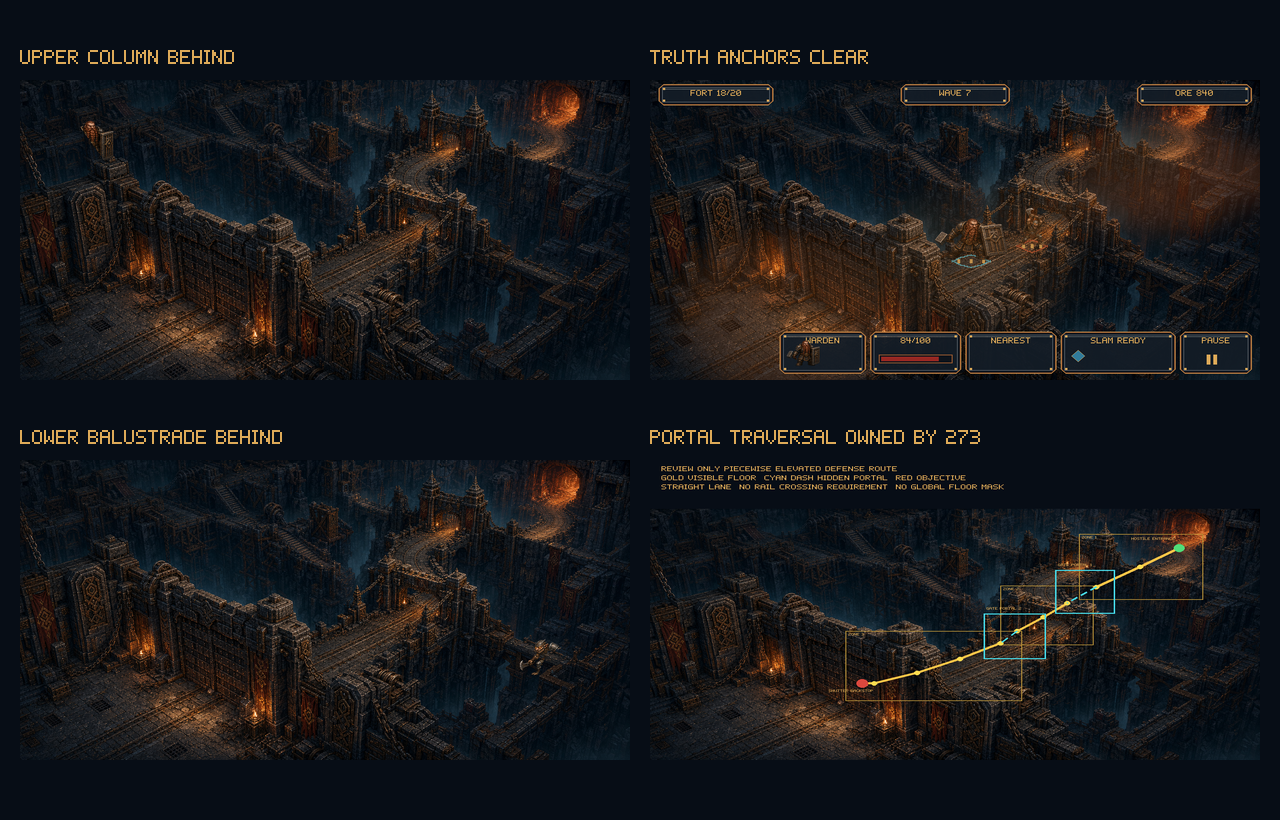
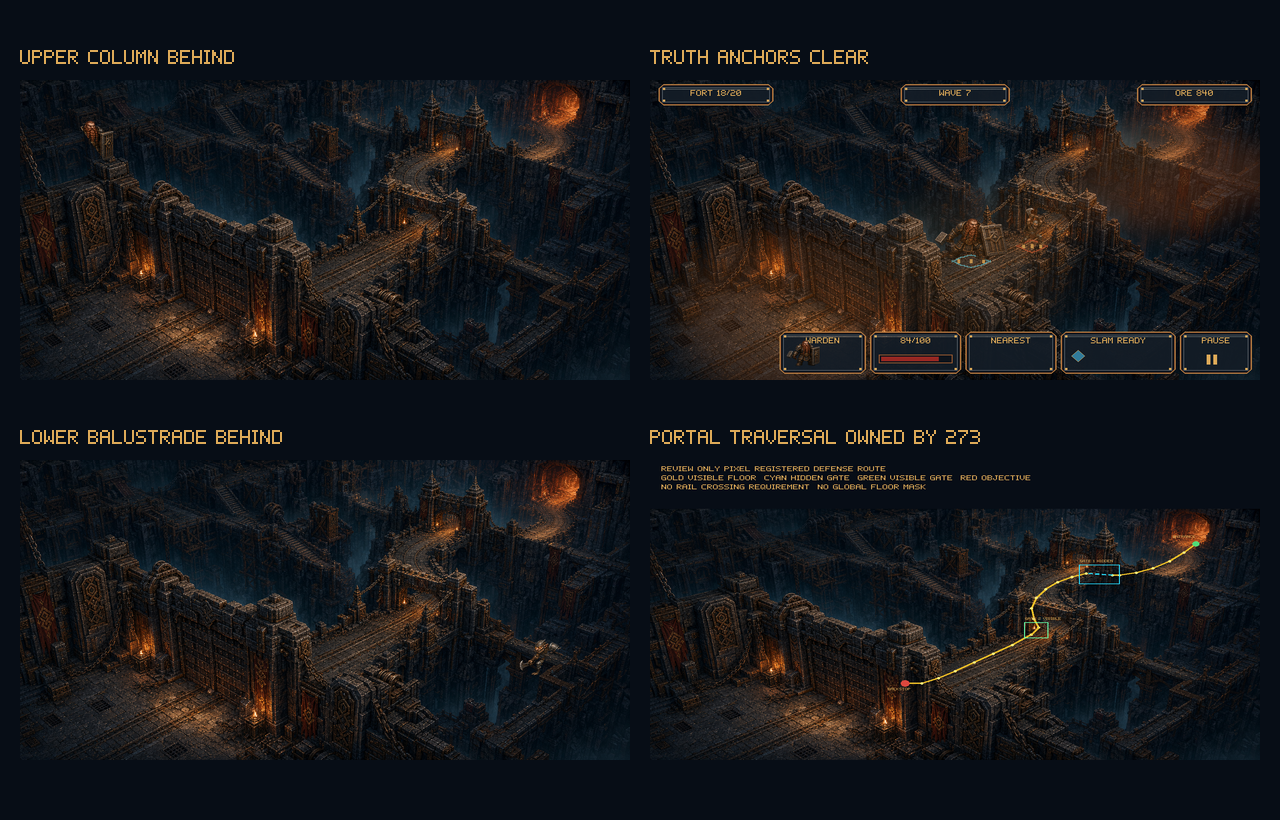
fix: register defense route to painted gate geometry

diff --git a/assets/game-art/production-scene/build_scene.py b/assets/game-art/production-scene/build_scene.py
@@ -1734,36 +1734,62 @@ def _draw_dashed_line_v3(
 
 
 def _route_board_v3(clean: Image.Image, route: dict[str, Any]) -> Image.Image:
-    """Show visible route zones and explicitly hidden portal/depth transitions."""
+    """Render a sparse, pixel-registered route survey over the clean plate."""
     board = Image.new("RGBA", (1280, 860), (7, 13, 22, 255))
-    pixel_text(board, (24, 18), "REVIEW ONLY PIECEWISE ELEVATED DEFENSE ROUTE", 2)
-    pixel_text(board, (24, 44), "GOLD VISIBLE FLOOR  CYAN DASH HIDDEN PORTAL  RED OBJECTIVE", 2)
-    pixel_text(board, (24, 70), "STRAIGHT LANE  NO RAIL CROSSING REQUIREMENT  NO GLOBAL FLOOR MASK", 2)
+    pixel_text(board, (24, 18), "REVIEW ONLY PIXEL REGISTERED DEFENSE ROUTE", 2)
+    pixel_text(board, (24, 44), "GOLD VISIBLE FLOOR  CYAN HIDDEN GATE  GREEN VISIBLE GATE  RED OBJECTIVE", 2)
+    pixel_text(board, (24, 70), "NO RAIL CROSSING REQUIREMENT  NO GLOBAL FLOOR MASK", 2)
     scene = clean.copy()
     draw = ImageDraw.Draw(scene)
     zones = route["zones"]
-    for index, zone in enumerate(zones, start=1):
+    for zone in zones:
         polyline = [tuple(point) for point in zone["visiblePolyline"]]
-        draw.line(polyline, fill=(255, 198, 72, 255), width=6, joint="curve")
+        draw.line(polyline, fill=(255, 205, 40, 235), width=4, joint="curve")
         for x, y in polyline:
-            draw.ellipse((x - 6, y - 6, x + 6, y + 6), fill=(255, 220, 80, 255))
-        x0, y0, x1, y1 = zone["bounds"]
-        draw.rectangle((x0, y0, x1, y1), outline=(255, 198, 72, 180), width=2)
-        pixel_text(scene, (x0 + 6, y0 + 6), f"ZONE {index}", 1)
+            draw.ellipse((x - 3, y - 3, x + 3, y + 3), fill=(255, 235, 120, 255))
     for index, portal in enumerate(route["portals"], start=1):
         incoming = tuple(portal["incomingAnchor"])
         outgoing = tuple(portal["outgoingAnchor"])
-        _draw_dashed_line_v3(draw, incoming, outgoing, fill=(70, 220, 235, 255))
         x0, y0, x1, y1 = portal["bounds"]
-        draw.rectangle((x0, y0, x1, y1), outline=(70, 220, 235, 255), width=3)
-        pixel_text(scene, (x0 + 6, max(8, y0 - 18)), f"GATE PORTAL {index}", 1)
+        if portal["visibility"] == "architecture-hidden":
+            color = (40, 220, 255, 255)
+            _draw_dashed_line_v3(draw, incoming, outgoing, fill=color, width=4, dash=8, gap=6)
+            label = f"GATE {index} HIDDEN"
+        else:
+            color = (100, 255, 170, 255)
+            draw.line((incoming, outgoing), fill=(255, 205, 40, 235), width=4)
+            label = f"GATE {index} VISIBLE"
+        draw.rectangle((x0, y0, x1, y1), outline=color, width=2)
+        pixel_text(scene, (x0 + 2, max(8, y0 - 14)), label, 1)
     entrance_x, entrance_y = route["entrance"]["anchor"]
     objective_x, objective_y = route["objective"]["anchor"]
-    draw.ellipse((entrance_x - 11, entrance_y - 11, entrance_x + 11, entrance_y + 11), fill=(80, 220, 120, 255))
-    draw.ellipse((objective_x - 12, objective_y - 12, objective_x + 12, objective_y + 12), fill=(220, 72, 62, 255))
-    pixel_text(scene, (entrance_x - 100, entrance_y - 30), "HOSTILE ENTRANCE", 1)
-    pixel_text(scene, (objective_x - 70, objective_y + 18), "SHUTTER BACKSTOP", 1)
+    draw.ellipse((entrance_x - 7, entrance_y - 7, entrance_x + 7, entrance_y + 7), fill=(80, 220, 120, 255))
+    draw.ellipse((objective_x - 9, objective_y - 9, objective_x + 9, objective_y + 9), fill=(220, 72, 62, 255))
+    pixel_text(scene, (entrance_x - 48, entrance_y - 24), "ENTRANCE", 1)
+    pixel_text(scene, (objective_x - 36, objective_y + 13), "BACKSTOP", 1)
     board.alpha_composite(scene, (0, 140))
+    return board
+
+
+def _route_registration_closeups_v3(route_board: Image.Image) -> Image.Image:
+    """Expose gate/threshold registration at reviewable scale instead of relying on the full frame."""
+    board = Image.new("RGBA", (1920, 680), (7, 13, 22, 255))
+    pixel_text(board, (24, 18), "PIXEL REGISTRATION CLOSEUPS FROM THE SAME ROUTE BOARD", 2)
+    panels = [
+        ("UPPER GATE HIDDEN SPAN", (780, 230, 1080, 450)),
+        ("LOWER GATE VISIBLE MOUTH", (650, 380, 950, 600)),
+        ("SHUTTER THRESHOLD", (400, 510, 700, 730)),
+    ]
+    for index, (label, crop_box) in enumerate(panels):
+        crop = route_board.crop(crop_box)
+        scale = min(600 / crop.width, 540 / crop.height)
+        resized = crop.resize((round(crop.width * scale), round(crop.height * scale)), Image.Resampling.NEAREST)
+        x = 20 + index * 630
+        y = 100
+        pixel_text(board, (x, 72), label, 1)
+        board.alpha_composite(resized, (x, y))
+        draw = ImageDraw.Draw(board)
+        draw.rectangle((x, y, x + resized.width - 1, y + resized.height - 1), outline=(222, 170, 88, 255), width=2)
     return board
 
 
@@ -1967,6 +1993,7 @@ def build(output_root: Path = ROOT) -> None:
         evidence / "lighting-entity-proof.png",
     )
     png(route_board, evidence / "route-anchor-validation.png")
+    png(_route_registration_closeups_v3(route_board), evidence / "route-registration-closeups.png")
     png(_alignment_board_v2(sprites), evidence / "entity-state-alignment.png")
     png(
         _impact_board_v2(reconstruction, effects["shield-slam-impact"]),
@@ -2050,12 +2077,12 @@ def verify(root: Path = ROOT) -> None:
         "safeAreas": {"world": [0, 0, 1280, 720], "unobscuredWorldBand": [0, 72, 1280, 590], "entitySafe": [80, 80, 1200, 590], "hudOcclusionRects": [[272, 604, 1262, 704]]},
         "camera": {"projection": "elevated-orthographic-2.5d", "viewDirection": "upper-right-background-to-lower-left-foreground", "fixedReviewFrame": True},
         "route": {
-            "topology": "single-straight-piecewise-portal-route",
+            "topology": "single-piecewise-painted-floor-route",
             "scope": "presentation-only-fixed-truth-screen",
-            "entrance": {"id": "entrance.background-opening", "anchor": [1110, 112]},
+            "entrance": {"id": "entrance.background-opening", "anchor": [1145, 100]},
             "objective": {
                 "id": "objective.foreground-shutter",
-                "anchor": [445, 500],
+                "anchor": [535, 500],
                 "kind": "terminal-backstop",
                 "traversable": False,
             },
@@ -2063,20 +2090,20 @@ def verify(root: Path = ROOT) -> None:
                 {
                     "id": "route-zone.background-approach",
                     "depthOrder": 100,
-                    "bounds": [900, 72, 1160, 260],
-                    "visiblePolyline": [[1110, 112], [1028, 166], [936, 224]],
+                    "bounds": [960, 80, 1165, 205],
+                    "visiblePolyline": [[1145, 100], [1120, 125], [1090, 150], [1055, 170], [1020, 183], [985, 190], [970, 190]],
                 },
                 {
                     "id": "route-zone.upper-causeway",
                     "depthOrder": 200,
-                    "bounds": [735, 220, 930, 390],
-                    "visiblePolyline": [[875, 270], [825, 310], [770, 350]],
+                    "bounds": [790, 175, 925, 350],
+                    "visiblePolyline": [[915, 185], [885, 195], [855, 210], [830, 230], [810, 255], [800, 285], [805, 315], [815, 340]],
                 },
                 {
                     "id": "route-zone.lower-causeway",
                     "depthOrder": 300,
-                    "bounds": [410, 350, 780, 550],
-                    "visiblePolyline": [[735, 385], [650, 430], [560, 470], [470, 500], [445, 500]],
+                    "bounds": [525, 350, 810, 515],
+                    "visiblePolyline": [[800, 360], [760, 390], [720, 415], [680, 440], [640, 465], [605, 485], [570, 500], [535, 500]],
                 },
             ],
             "portals": [
@@ -2084,9 +2111,10 @@ def verify(root: Path = ROOT) -> None:
                     "id": "portal.upper-gate",
                     "incomingZoneId": "route-zone.background-approach",
                     "outgoingZoneId": "route-zone.upper-causeway",
-                    "incomingAnchor": [936, 224],
-                    "outgoingAnchor": [875, 270],
-                    "bounds": [850, 175, 975, 300],
+                    "incomingAnchor": [970, 190],
+                    "outgoingAnchor": [915, 185],
+                    "bounds": [900, 160, 985, 215],
+                    "visibility": "architecture-hidden",
                     "occlusionMode": "architecture-depth-transition",
                     "traversalOwnerIssue": 273,
                 },
@@ -2094,15 +2122,16 @@ def verify(root: Path = ROOT) -> None:
                     "id": "portal.lower-gate",
                     "incomingZoneId": "route-zone.upper-causeway",
                     "outgoingZoneId": "route-zone.lower-causeway",
-                    "incomingAnchor": [770, 350],
-                    "outgoingAnchor": [735, 385],
-                    "bounds": [700, 300, 830, 430],
-                    "occlusionMode": "architecture-depth-transition",
+                    "incomingAnchor": [815, 340],
+                    "outgoingAnchor": [800, 360],
+                    "bounds": [785, 325, 835, 370],
+                    "visibility": "visible-floor-gate-mouth",
+                    "occlusionMode": "visible-depth-transition",
                     "traversalOwnerIssue": 273,
                 },
             ],
             "chokepointPortalIds": ["portal.upper-gate", "portal.lower-gate"],
-            "validation": "local-visible-segments-and-declared-hidden-portals",
+            "validation": "pixel-surveyed-visible-segments-and-registered-gate-mouths",
         },
         "entityAnchors": {"ironWardenTruthScreen": {"groundPosition": [674, 434], "depthSortY": 434}, "mineRaiderTruthScreen": {"groundPosition": [802, 398], "depthSortY": 398}},
         "entityStates": {"iron-warden-idle": {"canvas": [180, 120], "pivot": [90, 112], "facing": "upper-right", "nominalHeight": 104}, "iron-warden-shield-slam": {"canvas": [180, 120], "pivot": [90, 112], "facing": "upper-right", "nominalHeight": 104}, "mine-raider-idle": {"canvas": [128, 108], "pivot": [64, 100], "facing": "lower-left", "nominalHeight": 92}, "mine-raider-attack": {"canvas": [128, 108], "pivot": [64, 100], "facing": "lower-left", "nominalHeight": 92}},
@@ -2170,6 +2199,7 @@ def verify(root: Path = ROOT) -> None:
         "reconstruction-entities-removed",
         "reconstruction-one-warden-one-hostile",
         "route-anchor-validation",
+        "route-registration-closeups",
         "selection-and-combat-effect-isolation",
         "shield-slam-effect-proof",
     ]
@@ -2327,7 +2357,7 @@ def verify(root: Path = ROOT) -> None:
         raise ValueError("Last visible route zone must terminate at the shutter backstop")
     portals = route["portals"]
     if not isinstance(portals, list) or len(portals) != len(zones) - 1:
-        raise ValueError("Each adjacent visible route zone must be joined by one hidden portal transition")
+        raise ValueError("Each adjacent visible route zone must be joined by one registered gate transition")
     portal_ids: list[str] = []
     for index, raw_portal in enumerate(portals):
         portal = _assert_strict_v2(
@@ -2339,6 +2369,7 @@ def verify(root: Path = ROOT) -> None:
                 "incomingAnchor",
                 "outgoingAnchor",
                 "bounds",
+                "visibility",
                 "occlusionMode",
                 "traversalOwnerIssue",
             },
@@ -2357,7 +2388,13 @@ def verify(root: Path = ROOT) -> None:
         x0, y0, x1, y1 = validate_rectangle(portal["bounds"], f"scene.route.portals[{index}].bounds")
         if not all(x0 <= x <= x1 and y0 <= y <= y1 for x, y in (incoming_anchor, outgoing_anchor)):
             raise ValueError("Portal transition anchors must lie inside the declared portal mouth")
-        if portal["occlusionMode"] != "architecture-depth-transition" or portal["traversalOwnerIssue"] != 273:
+        expected_visibility = ["architecture-hidden", "visible-floor-gate-mouth"][index]
+        expected_occlusion_mode = ["architecture-depth-transition", "visible-depth-transition"][index]
+        if (
+            portal["visibility"] != expected_visibility
+            or portal["occlusionMode"] != expected_occlusion_mode
+            or portal["traversalOwnerIssue"] != 273
+        ):
             raise ValueError("Portal traversal/occlusion ownership drifted")
         portal_id = portal["id"]
         if not isinstance(portal_id, str) or portal_id in portal_ids:
@@ -2717,7 +2754,7 @@ def verify(root: Path = ROOT) -> None:
[6 lines of base64/hex data omitted]
     }
     if {record["path"]: record["role"] for record in provenance["inputs"]} != expected_roles:

diff --git a/assets/game-art/production-scene/README.md b/assets/game-art/production-scene/README.md
@@ -21,8 +21,8 @@ The verifier strictly rejects extra contract properties, stale/unmanifested file
 - The neutral reconstruction contains one readable Warden and one readable raider; Shield Slam impact is proved separately.
 - HUD chrome is separate from fixture values, health fill, target selection, ability readiness/cooldown, and pause/resume state.
 - The bottom HUD begins at x=272, leaving the foreground shutter approach and objective anchor visible.
-- The straight route is represented as three visible depth zones joined by two hidden architectural portal transitions: background entrance, upper gate, lower gate, and terminal foreground-shutter backstop. There is no rail-crossing, winding-path, branching-path, or global exposed-floor-mask requirement.
-- The diagnostic route overlay distinguishes visible floor segments from hidden portal/depth transitions and is never player UI. The shutter is a nontraversable objective; the route terminates at its approach.
+- The painted route is represented as three pixel-surveyed visible depth zones. The upper gate has one architecture-hidden transition; the lower gate mouth remains visibly floored and is marked as a visible depth transition. The route terminates at the foreground-shutter backstop. There is no rail-crossing, winding-path, branching-path, or global exposed-floor-mask requirement.
+- The diagnostic route overlay uses gold only on surveyed visible floor, cyan only across the upper architecture-hidden span, and green around the visible lower gate mouth. It is never player UI. The shutter is a nontraversable objective; the route terminates at its threshold.
 - Occlusion is explicitly bounded to #287's two fixed truth-screen anchors at Warden `[674, 434]` and raider `[802, 398]`. Portal traversal contracts and production movement remain owned by #273; #286 declares the portal mouths and depth transitions without claiming complete traversal animation.
 - Lighting uses straight-alpha normal compositing in sRGB, after entities/foreground and before combat effects/HUD.
 
@@ -32,7 +32,7 @@ The verifier strictly rejects extra contract properties, stale/unmanifested file
 |---|---|---|---|---|
 | Clean plate | Exact pixels and source identity | Minor export optimization with pixel identity | Replacement pixels or composition | #286 / product owner |
 | Camera/framing | Elevated orthographic 2.5D, 1280×720 review frame | None | Projection or framing change | #286 / product owner |
-| Route, entrance, gate | Straight piecewise topology, background entrance, two gate portals, terminal shutter objective | Local readability grading | Topology, entrance, portal, objective, or depth-zone change | #286 / product owner |
+| Route, entrance, gate | Pixel-surveyed piecewise topology, background entrance, one hidden upper transition, one visible lower gate mouth, terminal shutter objective | Local readability grading | Topology, entrance, portal, objective, or depth-zone change | #286 / product owner |
 | Entity scale/anchors | 104 px Warden, 92 px raider, pivots, fixed #287 anchors | Bounded sprite cleanup preserving silhouette/pivot | Proportion, scale family, or anchor change | #286 / product owner |
 | HUD regions | Exact top and right-weighted bottom regions | Ornament and information hierarchy | Region placement or gate-obscuring layout | #275 / product owner |
 | HUD state | Minimum #287 value/control variants | Typography/icon polish | Authoritative meaning or control relocation | #275 |
@@ -50,9 +50,9 @@ The clean plate retains the wider diagonal, architecture-forward composition sho
 
 | Review item | Requested now | Demonstrated fact | Known limitation / later owner |
 |---|---|---|---|
-| Composition | Accept the wider diagonal camera, straight portal-based route, entrance, shutter backstop, and HUD regions as #287's floor | Clean plate is complete and independently layered | Encounter density and production battlefield polish: #273 |
+| Composition | Accept the wider diagonal camera, pixel-registered painted-floor route, entrance, shutter backstop, and HUD regions as #287's floor | Clean plate is complete and independently layered | Encounter density and production battlefield polish: #273 |
 | Entities | Accept 104 px Warden, 92 px raider, shared pivots, and two fixed anchors | Individual removal keeps the same clean-plate pixel digest | Full movement/combat/hit/death animation: #273 |
-| Occlusion | Accept the two fixed #287 anchors and declared portal/depth transitions | Two off-route samples demonstrate partial architecture masking; the route board marks hidden portal spans | Production portal masks, traversal, and movement are not claimed: #273 |
+| Occlusion | Accept the two fixed #287 anchors and registered gate/depth transitions | Two off-route samples demonstrate partial architecture masking; the route board distinguishes the one hidden span from the visible gate mouth | Production portal masks, traversal, and movement are not claimed: #273 |
 | HUD | Accept regions and minimum state separation for #287 | Chrome, values, target, ability, and pause variants are separate | Final ornament/information hierarchy: #275 |
 | Responsive presentation | No visual decision requested | Crop policy is metadata only | Layout, accessibility modes, and viewport evidence: #276 |
 

diff --git a/assets/game-art/production-scene/generation-log.md b/assets/game-art/production-scene/generation-log.md
@@ -20,7 +20,7 @@ Visual QA found zero apparent defenders, enemies, creature silhouettes, combat e
 
 `build_scene.py` deterministically derives the two alpha character states needed by #287 from the approved #282 character masters, authors separate effect/HUD/lighting/mask layers, composes the proof, publishes isolation boards and an in-scene scale study, and records every output digest. These poses are a bounded truth-screen set rather than a production animation set; #273 owns complete movement, combat, hit, and death animation coverage. No third-party asset, font, texture, stock image, or model is used.
 
-The clean plate is interpreted as a straight piecewise elevated route: a visible background entrance, three visible floor/depth zones, two hidden architectural gate-portal transitions, and a terminal foreground-shutter backstop. Rail crossing, winding, branching, and one globally exposed clearance mask are not requirements. The review-only route board distinguishes visible floor segments from hidden portal spans; full traversal masks and movement remain owned by issue #273.
+The clean plate route was surveyed directly against the painted pixels after product-owner review found the first segment proposal visibly misregistered. It now uses three visible floor/depth zones, one cyan architecture-hidden transition at the upper gate, one green visibly floored transition at the lower gate mouth, and a terminal foreground-shutter threshold. Rail crossing, winding, branching, and one globally exposed clearance mask are not requirements. Full traversal masks and movement remain owned by issue #273.
 
 ## Reproducible export toolchain
 
